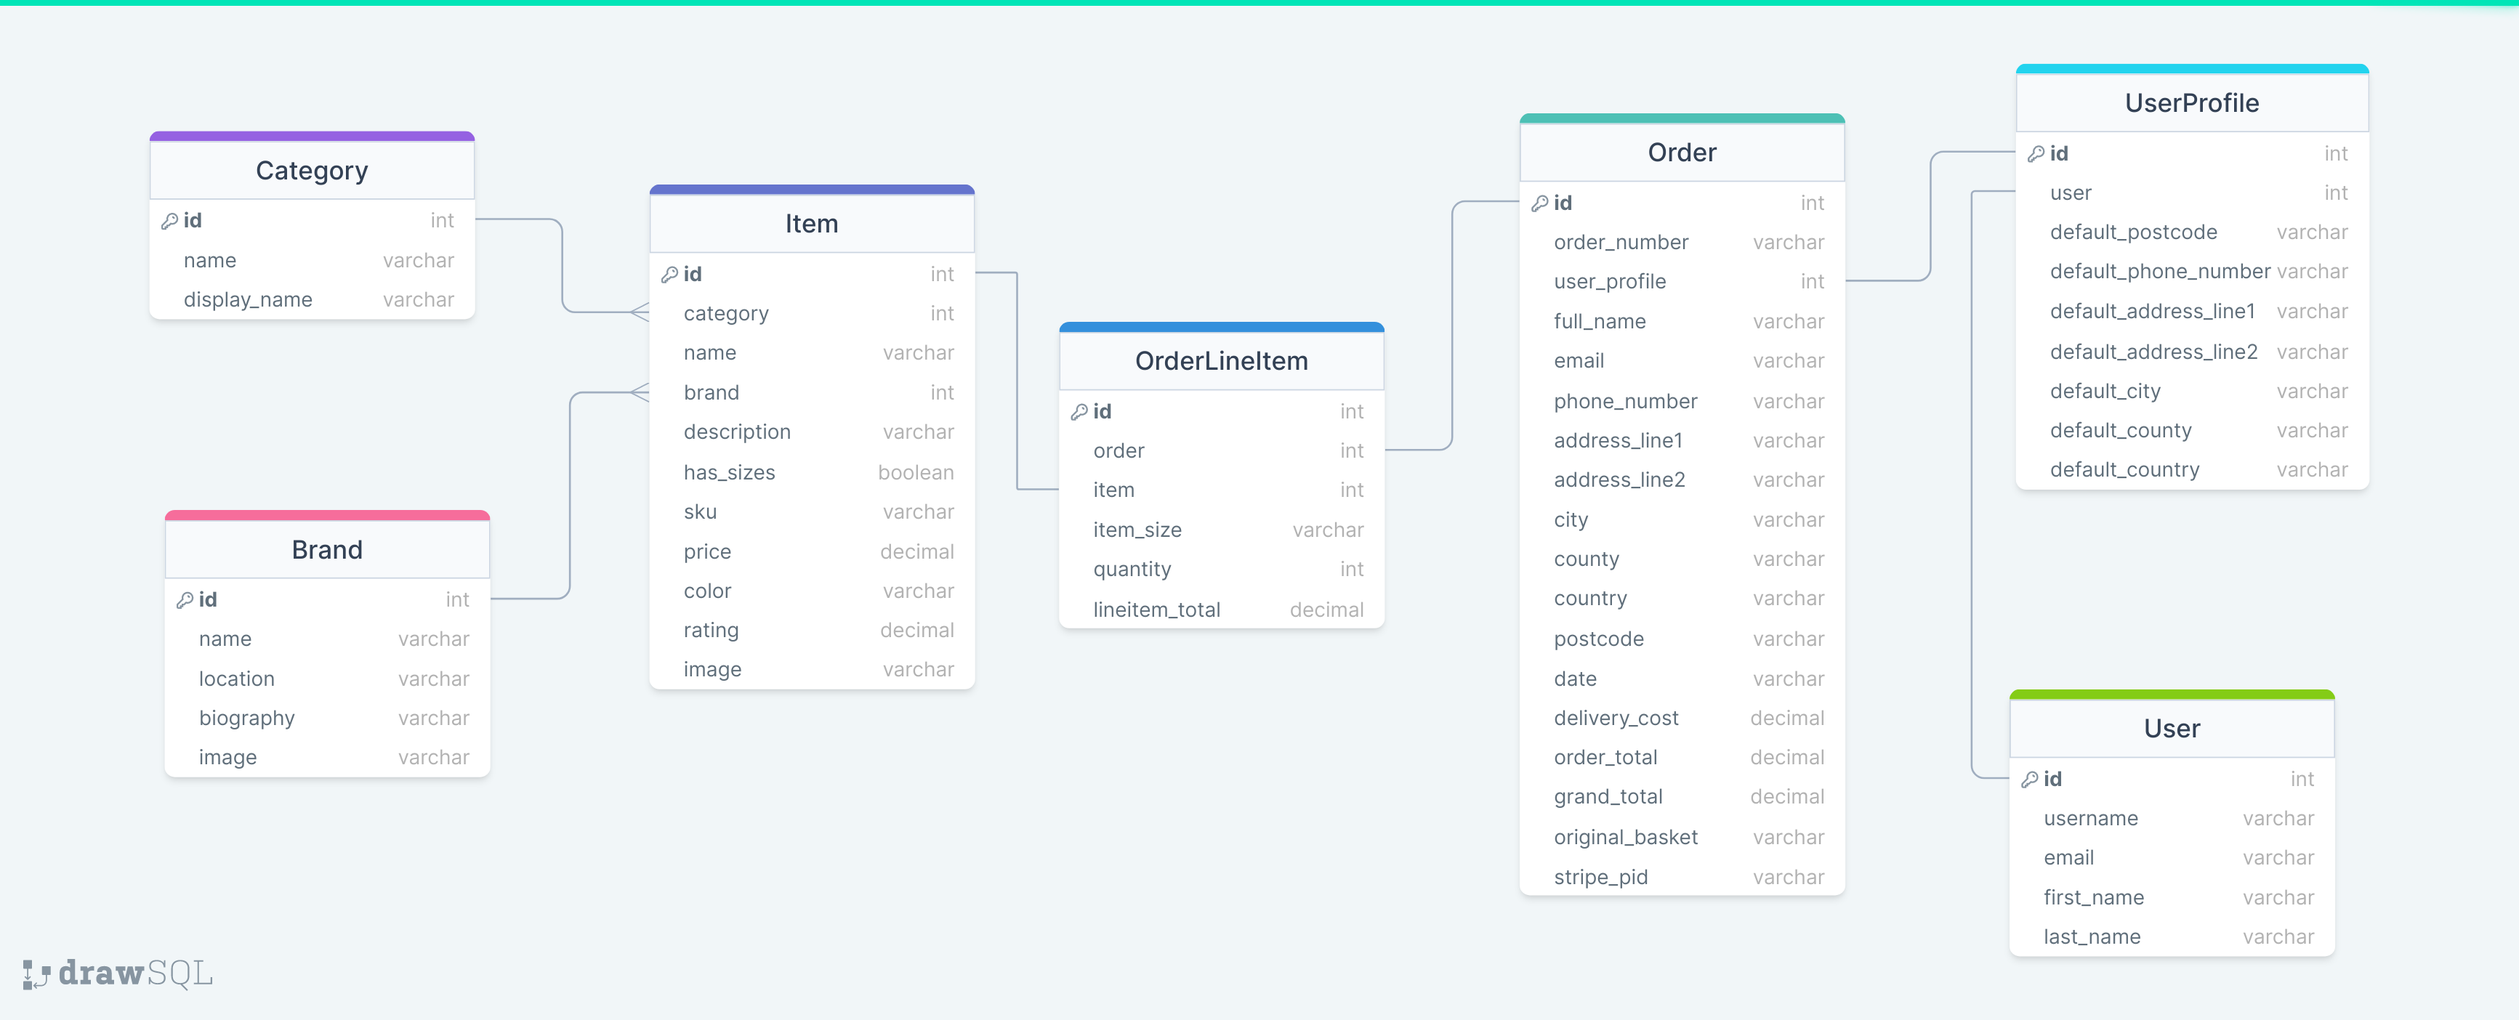
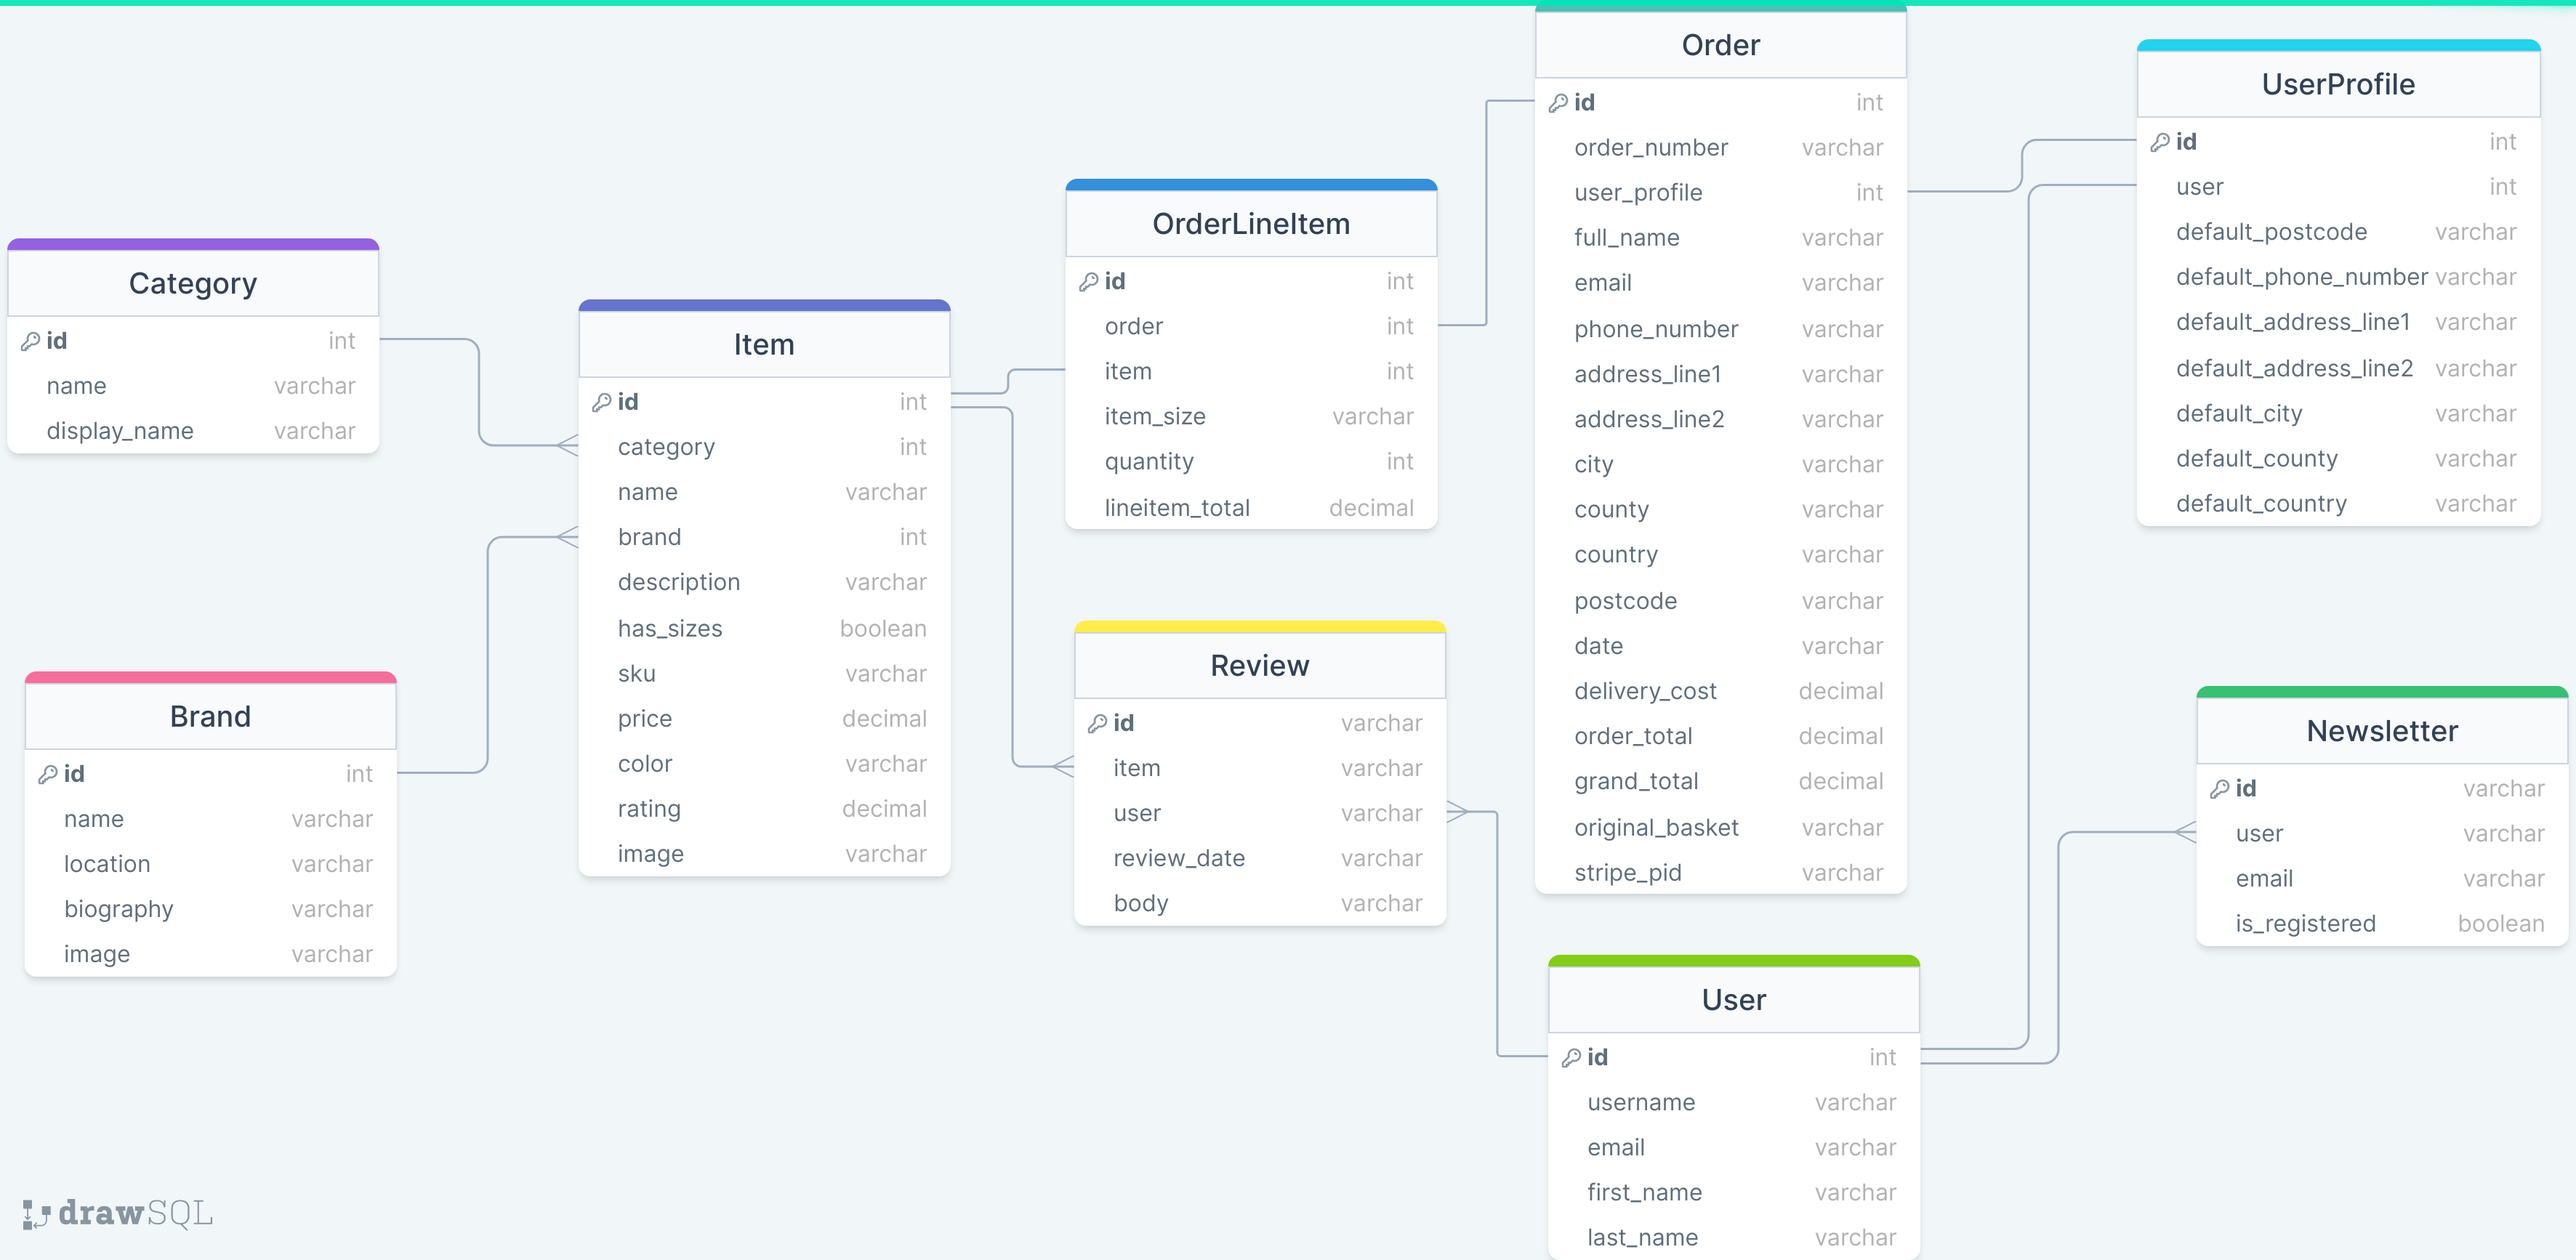
Added user stories, epics and sprints to readme

diff --git a/README.md b/README.md
@@ -13,8 +13,48 @@
 
 ## Planning
 
+### User Stories
+#### Viewing & Navigation
+1. As an online shopper I want to have the ability to screen a variety of different products on a list so that I can add them to my basket to purchase.
+1. As an online shopper I want to have the ability to screen details about items specific to that product to understand the cost, description and criteria, the rating, an image of the product and sizes available to me.
+1. As an online shopper I want to have the ability to see easily and swiftly find product deals or special offers that I can utilise to save money on my purchases.
+1. As an online shopper I want to have the ability to see my final purchase cost on the screen at any point of my online shopping experience to keep track of spending and limit over spending.
+
+#### Registration & User Accounts
+5. As a user of an online shopping site, I want to have the ability to create and register for an account with ease so that I can have an online profile and personal account with the site that I can view when I please.
+1. As a user of an online shopping site, I want to have the ability to access my account by logging in and logging out when I want to ensure that I can always get access to my personal information.
+1. As a user of an online shopping site, I want to have the ability to create and change my passwords and recover old or lost passwords in times I may forget it to ensure I can always get access to my account.
+1. As a user of an online shopping site, I want to have the ability to be given confirmation via email that my registration has been successfully completed so I can be sure that my account is fully verified and successful.
+1. As a user of an online shopping site, I want to have the ability to be given confirmation via email that my registration has been successfully completed so I can be sure that my account is fully verified and successful.
+
+#### Sorting & Searching
+10. As an online shopper I want to have the ability to sort the product lists in terms of availability to allow for easily identifying the best related products, best priced products and products sorted in terms of their category.
+1. As an online shopper I want to have the ability to adjust and order a category I choose of a specific product to easily view the best rated product in that specific category or order these products by their name.
+1. As an online shopper I want to have the ability to adjust and order various categories of products at the same time to find best priced and rated products across a wide range of categories, such as “T-Shirts” or “Shorts”.
+1. As an online shopper I want to have the ability to look up and search products using their name or their description to easily find the exact product I’d want to purchase.
+1. As an online shopper I want to have the ability to easily view the products I search for, and the total number of results associated so I can make a quick decision on if the product I want exists and is available.
+
+#### Purchasing & Checkout
+15. As an online shopper I want to have the ability to select with ease both the size and quantity of the product I am purchasing to be certain I don’t select the wrong item/product, quantity, or size by accident.
+1. As an online shopper I want to have the ability to view any items I have added to my bag/basket that I may purchase to ensure I am fully aware of the total cost of my purchase and what items I will be receiving.
+1. As an online shopper I want to have the ability to amend the quantity of separate items in my basket so that I can make changes if I’d like to prior to checking out.
+1. As an online shopper I want to have the ability to enter my payment information easily so that I can have a quick and comfortable check out experience without hassle.
+1. As an online shopper I want to have the ability to feel safe using the site to purchase my items and giving my payment information so that I can be confident providing the necessary information to purchase the desired products.
+1. As an online shopper I want to have the ability to have confirmation of my order and see that it has been completed so that I can ensure that no mistakes have been made.
+1. As an online shopper I want to have the ability to have confirmation of my order and see that it has been completed so that I can ensure that no mistakes have been made.
+
+
+
+#### Admin & Store Management
+22. As the owner of an online store, I want to have the ability to create and upload new items/products so that I can grow my inventory.
+1. As the owner of an online store, I want to have the ability to make amendments and changes to my products so that I can keep up with changing costs for the price of products, the images used on the website, details surrounding the products and any other important product information.
+1. As the owner of an online store, I want to have the ability to remove any items from my store and delete them so that they are not accessible to purchase on the site.
+
+
+
+
 ### Data Model
-This project used Object Oriented programming, utilising model classes to define data. PostgreSQL and ElephantSQL were used to create a relational database of objects. Seven different models were created covering the product catalogue and the journey of the customer from browsing to checkout. These include Item, Brand, Category, Order, OrderLineItem, UserProfile and User. Data fields were defined for each parameter and foreign key fields were used to reference objects in different tables
+This project used Object Oriented programming, utilising model classes to define data. PostgreSQL and ElephantSQL were used to create a relational database of objects. Seven different models were created covering the product catalogue and the journey of the customer from browsing to checkout. These include Item, Brand, Category, Review, Newsletter, Order, OrderLineItem, UserProfile and User. Data fields were defined for each parameter and foreign key fields were used to reference objects in different tables
 
 ![SQL Data Model](media/sql-data-model.png)
 
@@ -43,12 +83,34 @@ This site uses a familiar web design pattern to provide a seamless and instinctu
 ### Agile Approach
 This project was implemented using an Agile approach to take advantage of the iterative and incremental development.
 
-A key advantage of this approach was the iterative and incremental development, which created a highly adaptable and efficient work schedule. Tasks were completed in stages to fulfil user stories, which incrementally improved the functionality of the website. The project was split into two-day iterations, to review progress and adjust the work schedule accordingly.
+A key advantage of this approach was the iterative and incremental development, which created a highly adaptable and efficient work schedule. Tasks were completed in stages to fulfil user stories, which incrementally improved the functionality of the website. The project was split into 5 day iterations, to review progress and adjust the work schedule accordingly.
 
 GitHub Projects was used to organise the project tasks and timeline. A kanban board was used to move user stories across To Do, In Progress and Done columns according to their status.
 
-![Kanban 1](media/kanban1.webp)
-![Kanban 2](media/kanban2.webp)
+#### Epics
+* Viewing & Navigation
+* Registration & User Accounts
+* Sorting & Searching
+* Purchasing & Checkout
+* Admin & Store Management
+
+
+#### Sprints
+
+##### Sprint 1 (Viewing & Navigation)
+![Viewing and Navigation Sprint](media/viewing-navigation-sprint.png)
+
+##### Sprint 2 (Registration & User Accounts)
+![Registration and User Accounts Sprint](media/registration-user-accounts-sprint.png)
+
+##### Sprint 3 (Sorting & Searching)
+![Sorting and Searching Sprint](media/sorting-searching-sprint.png)
+
+##### Sprint 4 (Purchasing & Checkout)
+![Purchasing and Checkout Sprint](media/purchasing-checkout-sprint.png)
+
+##### Sprint 5 (Admin & Store Management)
+![Admin and Store Management Sprint](media/admin-store-management-sprint.png)
 
 
 ## Features
